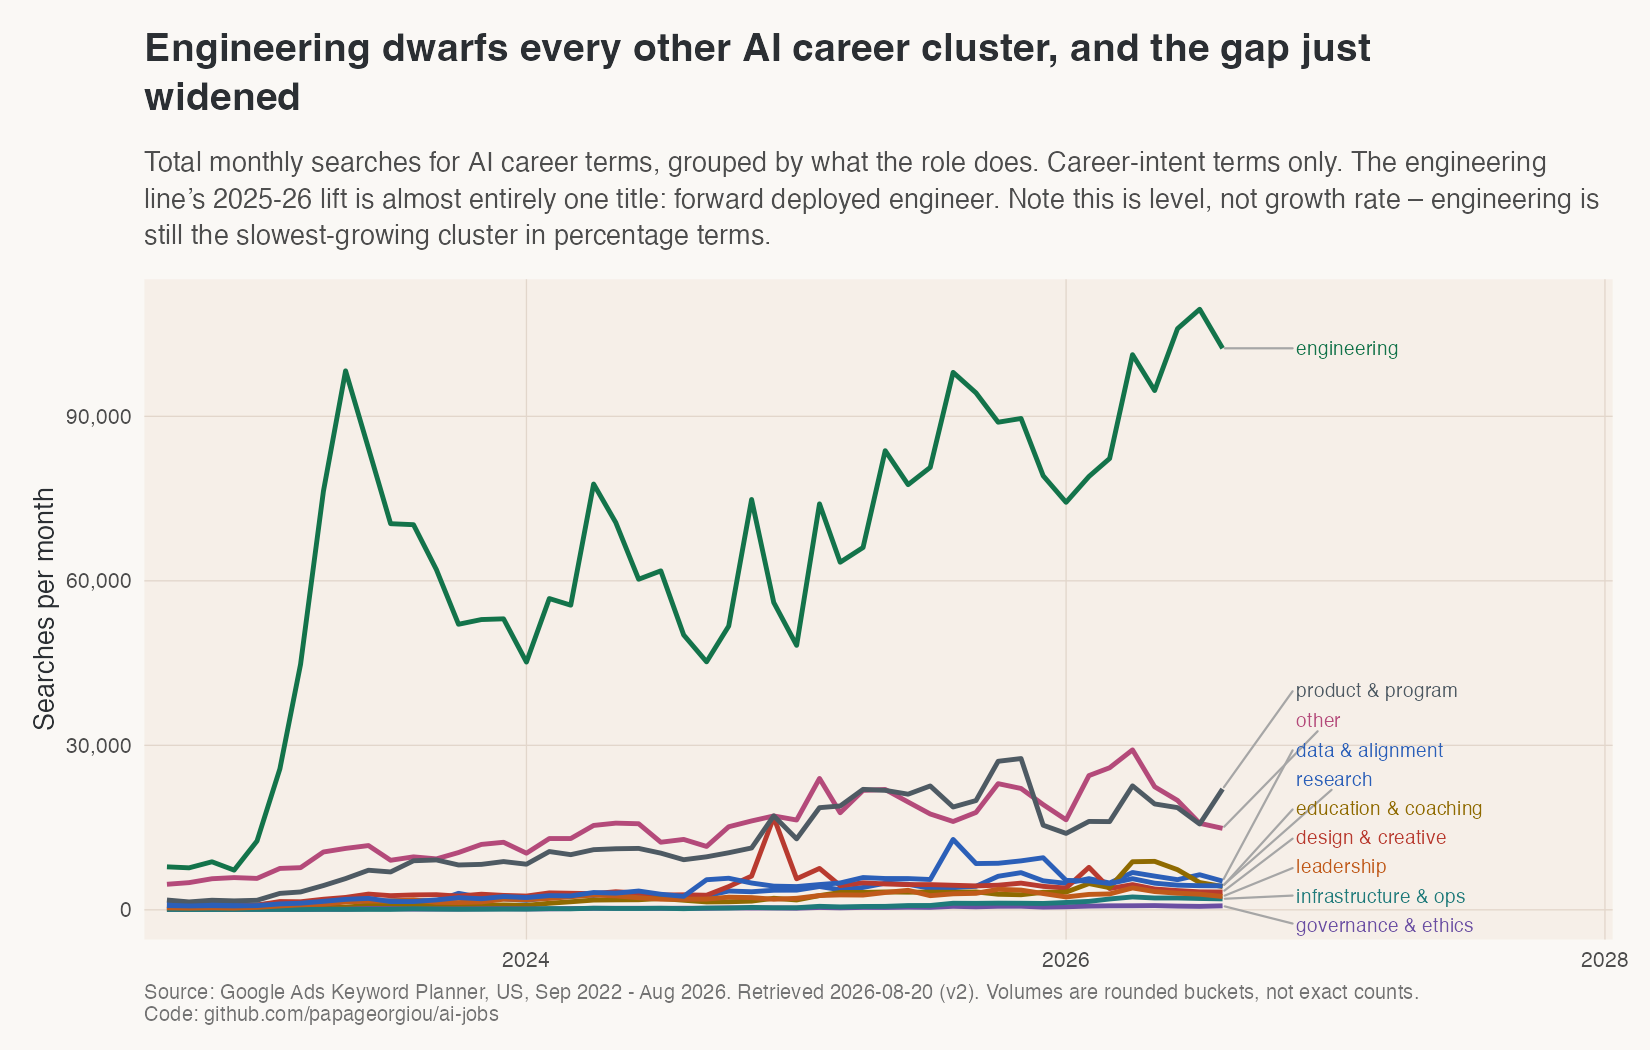
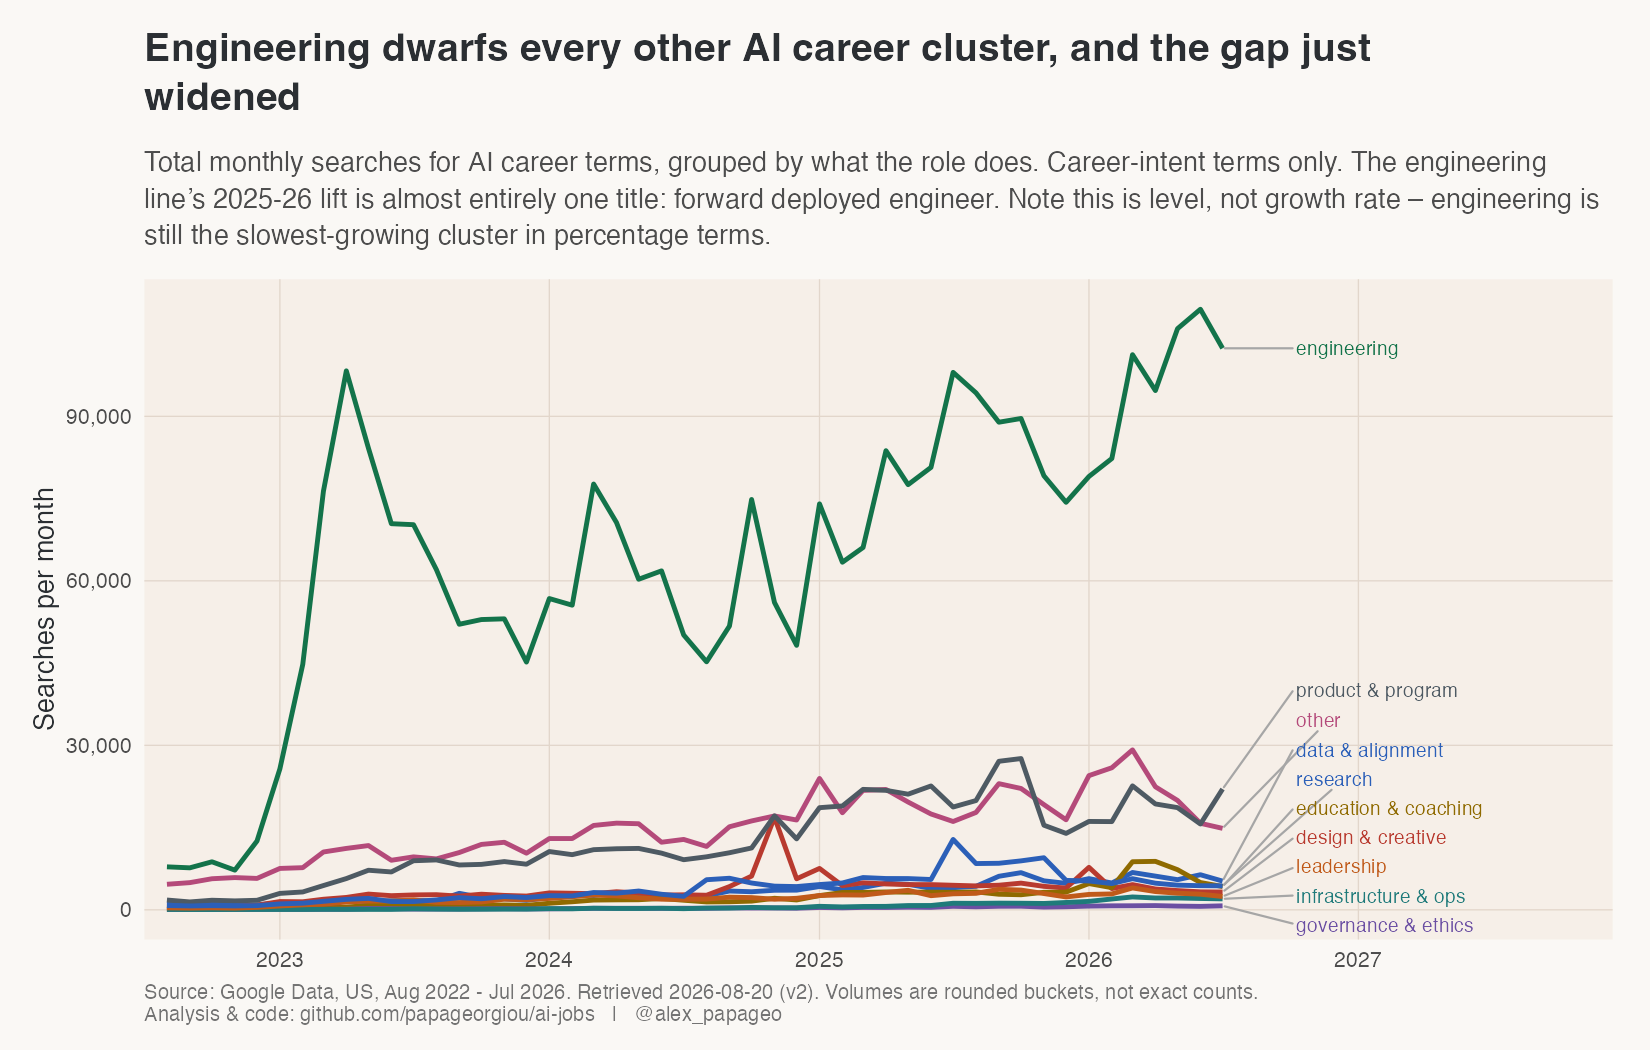
Fix off-by-one month labels; rebuild v2 charts
The get-search-data skill has been corrected on how kwideas_funcs encodes
past_months. It writes f"{vol.month - 1}-{year}", and the Google Ads
MonthOfYearEnum starts at JANUARY = 2, so month - 1 is already the true
calendar month: "8-2022" is August 2022. The old reading treated it as
September and 02_stats.py added a compensating +1.

That put every month one late. v2's pull ran 2026-08-20 and its raw labels
run 8-2022 -> 7-2026, so the window is Aug 2022 - Jul 2026; the pipeline
reported Sep 2022 - Aug 2026, claiming a month that had not finished when
the data was pulled. Verified against the raw pickle and the enum itself
rather than assumed. v1 has the same shift (real window Jul 2022 - Jun 2026)
but is frozen, so it was not re-run - noted in CLAUDE.md instead.

resolve_start() is now resolve_months(): it reads the labels, asserts every
row agrees and that they are chronological, and persists them to
month_labels.json, per the skill. Only rolling.parquet's month column
changes; the trend stats are month-index based, so kw_trend_stats and
clusters are unaffected.

Chart 02 rebuilt as asked: y-axis floored at 10 (censored, not clamped -
pmax would draw a wall of fake flat lines on the axis), forward deployed
engineer given a cased heavy stroke plus endpoint value, and the five
narrative titles hand-picked instead of slice_max(momentum, n = 8), which
pulled in terms too small to read. Source line now "Google Data", credit
line "Analysis & code" plus @alex_papageo.
[…]

diff --git a/02_stats.py b/02_stats.py
@@ -1,6 +1,6 @@
 """Rolling average, trend model and growth metrics per keyword."""
 
-import re
+import json
 import sys
 
 import numpy as np
@@ -13,28 +13,48 @@ sys.path.append(config.ADS_API_DIR)
 from pyevangelion_powerfuncs_ai import get_final_res_df  # noqa: E402
 
 
-def resolve_start():
-    """First month of the 48-month window, as a Timestamp.
+def resolve_months():
+    """The 48 month labels of the window, as a DatetimeIndex.
 
-    kwideas_funcs encodes past_months as f"{month-1}-{year}", so "5-2022" means
-    June 2022, not May. A naive parse silently lands a month early, so the +1
-    correction here is load-bearing.
+    The API returns a past_months label vector alongside searches_past_months,
+    and it is the only authoritative statement of which months the numbers
+    describe. Read it; never hardcode a start date.
+
+    kwideas_funcs encodes each label as f"{vol.month - 1}-{year}", and the Google
+    Ads MonthOfYearEnum starts at JANUARY = 2, so month - 1 is already the true
+    calendar month. "8-2022" means August 2022. No correction is needed.
+
+    An earlier version of this function added 1, on the since-corrected reading
+    that "8-2022" meant September. That put the whole series one month late: v2
+    was labelled Sep 2022 - Aug 2026 when the pull (2026-08-20) can only reach
+    the last complete month, July 2026. A shifted window still looks entirely
+    plausible - every downstream check passes - so it is caught here or not at
+    all.
     """
     df = get_final_res_df(pd.read_pickle(config.out("full_results.pkl")))
     df.columns = [c.lower().replace(" ", "_") for c in df.columns]
-    full = df[df["past_months"].map(lambda v: len(v) if hasattr(v, "__len__") else 0)
-              == config.N_MONTHS]
-    if full.empty:
-        raise SystemExit("no row with a full past_months series to derive the start date")
-    first = list(full.iloc[0]["past_months"])[0]
-    month, year = re.match(r"(\d+)-(\d+)", str(first)).groups()
-    return pd.Timestamp(int(year), int(month) + 1, 1)   # +1: see docstring
+    lab = df["past_months"].apply(
+        lambda v: tuple(v) if isinstance(v, (list, tuple)) else ())
+    lab = lab[lab.map(len) == config.N_MONTHS]
+    if lab.empty:
+        raise SystemExit("no full-length past_months vector returned")
+    if lab.nunique() != 1:
+        raise SystemExit(f"rows disagree on month labels: {lab.nunique()} distinct")
+
+    months = [f"{int(y):04d}-{int(m):02d}"
+              for m, y in (str(x).split("-") for x in lab.iloc[0])]
+    if sorted(months) != months:
+        raise SystemExit(f"labels not chronological: {months[:3]} ... {months[-3:]}")
+
+    idx = pd.to_datetime([f"{m}-01" for m in months])
+    json.dump(months, open(config.out("month_labels.json"), "w"))
+    print(f"month labels from API: {months[0]} -> {months[-1]} ({len(months)} months)")
+    return idx
 
 
 def main():
     df = pd.read_parquet(config.out("df_clean.parquet"))
-    start = resolve_start()
-    months = pd.date_range(start, periods=config.N_MONTHS, freq="MS")
+    months = resolve_months()
     print(f"window: {months[0]:%Y-%m} to {months[-1]:%Y-%m} ({len(months)} months)")
     assert len(months) == config.N_MONTHS
 

diff --git a/CLAUDE.md b/CLAUDE.md
@@ -8,11 +8,12 @@ Output feeds LinkedIn posts. Charts for publication live in the separate `posts`
 
 ## Two versions live side by side
 
-**v1** is the original study (1,052 titles, Aug 2022 - Jul 2026, pulled 2026-07-29):
-`output/`, `04_charts.R`, `report.qmd`, `INSIGHTS.md`.
+**v1** is the original study (1,052 titles, pulled 2026-07-29): `output/`, `04_charts.R`,
+`report.qmd`, `INSIGHTS.md`. Its real window is **Jul 2022 - Jun 2026**; its charts and report
+say Aug 2022 - Jul 2026 because of the month-label bug below, and were not re-rendered.
 
-**v2** adds one title, `Forward Deployed Engineer`, and re-pulls (1,053 titles, Sep 2022 -
-Aug 2026, pulled 2026-08-20): `output_v2/`, `04_charts_v2.R`, `report_v2.qmd`,
+**v2** adds one title, `Forward Deployed Engineer`, and re-pulls (1,053 titles, Aug 2022 -
+Jul 2026, pulled 2026-08-20): `output_v2/`, `04_charts_v2.R`, `report_v2.qmd`,
 `INSIGHTS_v2.md`.
 
 v1 is frozen and must stay reproducible - do not edit `04_charts.R`, `report.qmd`,
@@ -110,9 +111,25 @@ high-volume title above every emerging one:
 
 Growth rate and net volume rank almost disjoint sets of titles. Report both or say which you used.
 
-**The `past_months` +1 correction.** `kwideas_funcs` encodes months as `f"{month-1}-{year}"`, so
-`"5-2022"` means June 2022. `02_stats.py` applies the correction in `resolve_start()`. A naive
-parse silently lands the whole series a month early.
+**The `past_months` labels need no correction — and an earlier version of this file said they
+did.** `kwideas_funcs` encodes months as `f"{vol.month - 1}-{year}"`, and the Google Ads
+`MonthOfYearEnum` starts at `JANUARY = 2`, so `month - 1` is *already* the true calendar month.
+`"8-2022"` means August 2022. Do not add 1.
+
+`02_stats.py` used to add 1, on the since-corrected reading that `"8-2022"` meant September. That
+put every v2 month one late: the window was labelled Sep 2022 - Aug 2026 when the pull ran
+2026-08-20 and can only reach the last complete month, July 2026. Fixed 2026-08-27 in
+`resolve_months()`, which now reads the labels, asserts all rows agree and that they are
+chronological, and persists them to `output*/month_labels.json`.
+
+**v1's `output/` is still shifted** — it is frozen, so it was not re-run. Its real window is
+Jul 2022 - Jun 2026, not the Aug 2022 - Jul 2026 its charts and report state. Re-run
+`02_stats.py`/`03_cluster.py` against `output/` before reusing any v1 date claim.
+
+The lesson generalises: a window shifted by a month is invisible downstream. Every internal check
+passes, the shape stays smooth, nothing looks broken. Derive the range from the data and print it
+— never restate it in a caption or a `START` constant. `04_charts_v2.R` now builds `CAPTION` from
+`range(rolling$month)` for exactly this reason.
 
 **Log scales are usually required.** `prompt engineer` peaks at 65,000/month while emerging
 titles sit in the hundreds. On a linear axis every line of interest renders as flat.
